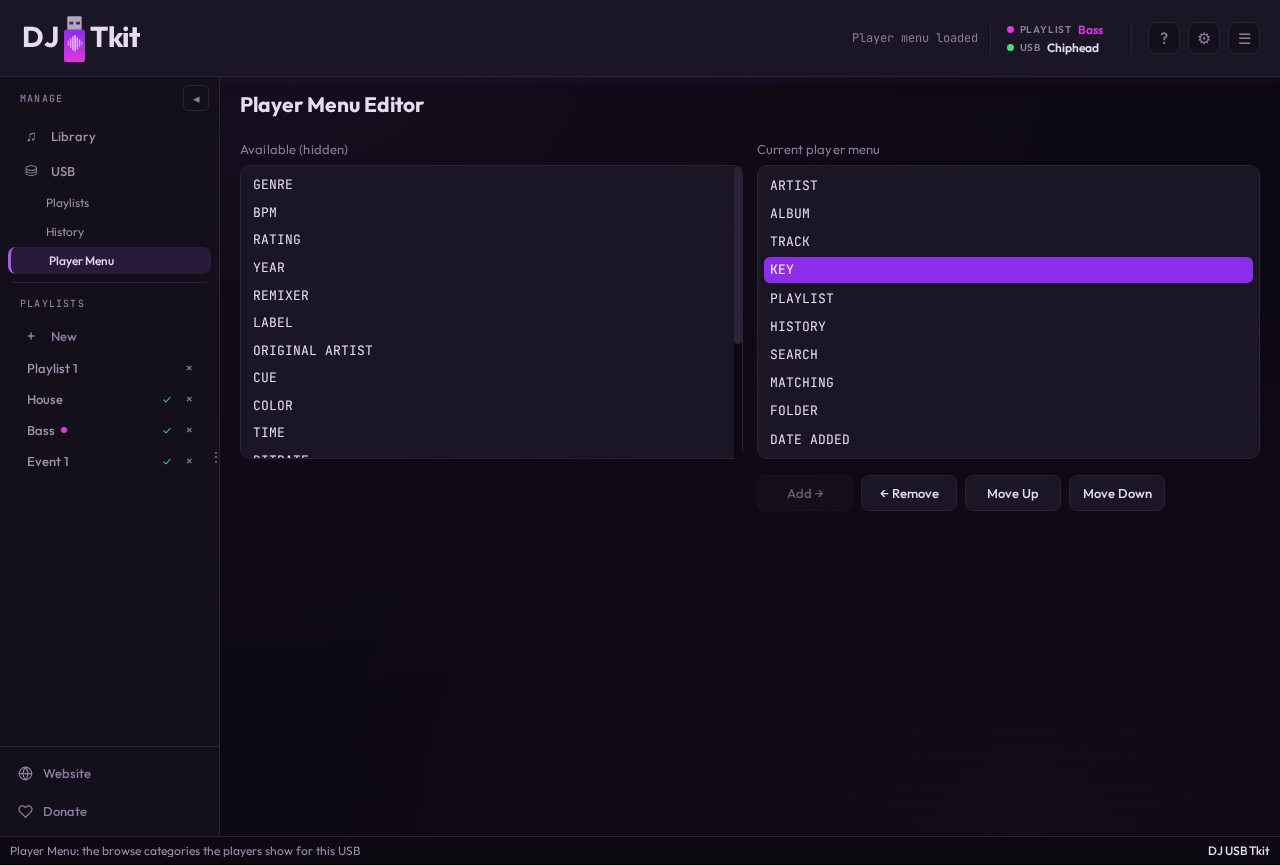
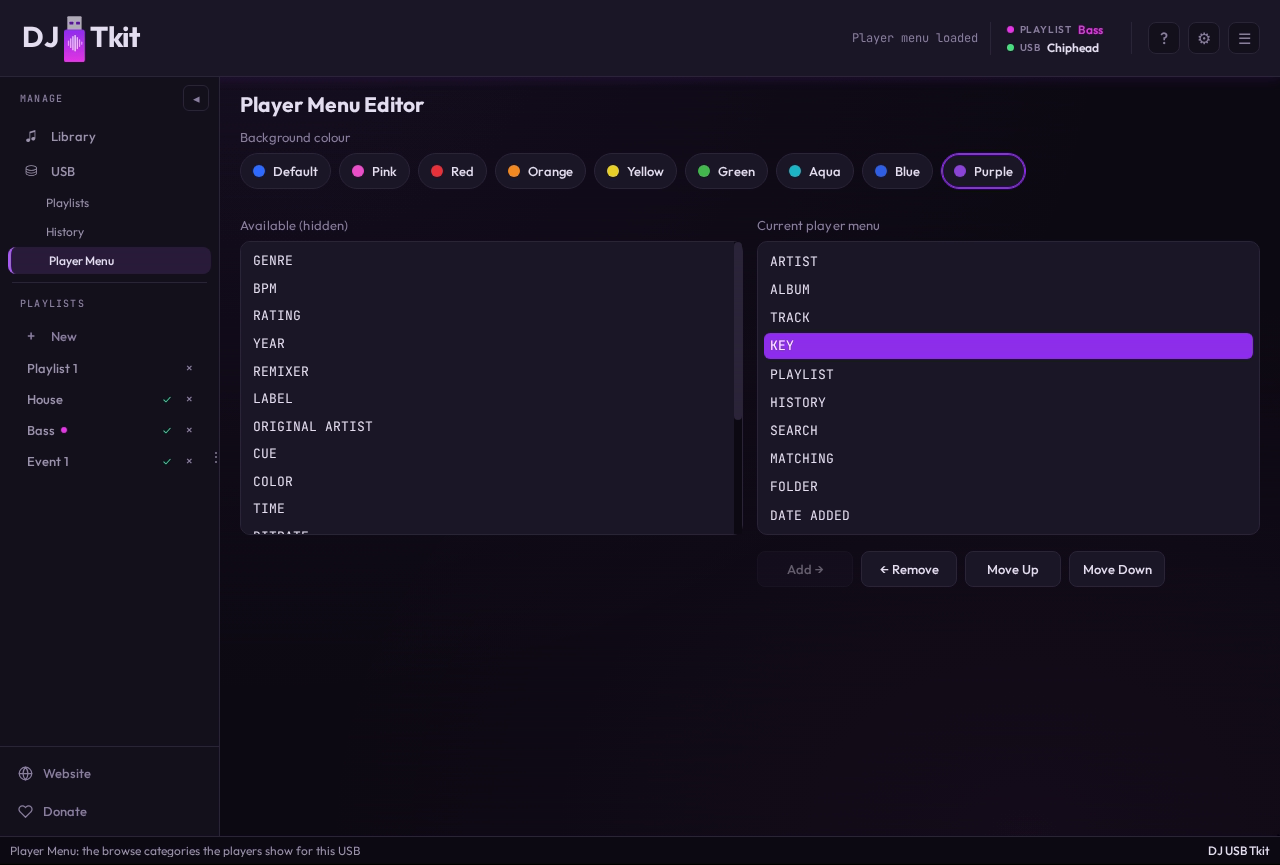
v0.5.0

diff --git a/vanilla-ui/scripts/doc-media/page_init.js b/vanilla-ui/scripts/doc-media/page_init.js
@@ -68,7 +68,7 @@
     const id = `pl-import-${source}-${item.id}`;
     const items = byTitles(item.titles);
     playlists.push({ id, name: item.name, tracks: items, imported: true });
-    return ok({ playlistId: id, name: item.name, added: items.length, indexed: 0, notFound: [], warnings: [] });
+    return { playlistId: id, name: item.name, added: items.length, indexed: 0, notFound: [], warnings: [] };
   };
   // USB track rows by title, from every exported playlist.
   const usbTracksByTitle = new Map(
@@ -203,10 +203,17 @@
             return listExternal("rekordbox");
           case "list_mixxx_playlists":
             return listExternal("mixxx");
-          case "import_rekordbox_playlist":
-            return importPlaylist("rekordbox", r);
-          case "import_mixxx_playlist":
-            return importPlaylist("mixxx", r);
+          case "import_external_playlists": {
+            // Every ticked list in one call, as the backend imports them.
+            const results = r.items.map((item) => ({ playlist: importPlaylist(item.library, item) }));
+            return ok({
+              results,
+              imported: results.length,
+              failed: 0,
+              added: results.reduce((n, { playlist }) => n + playlist.added, 0),
+              skipped: 0,
+            });
+          }
           case "list_playlists":
             return ok({ items: playlistRows() });
           case "create_playlist": {
@@ -312,6 +319,9 @@
             return usbTracksPage(historySessions.find((h) => h.id === r.id)?.items || []);
           case "get_usb_player_menu_config":
             return usb.playerMenu;
+          case "get_usb_background_color":
+            // What an app-initialized USB holds: purple in both databases.
+            return ok({ pdbColor: 8, edbColor: 8, writable: true });
           case "export_to_usb":
             return replayExport(r.playlistId);
           case "browse_source_files": {

diff --git a/docs/USB_EXPORT.md b/docs/USB_EXPORT.md
@@ -447,7 +447,7 @@ Player browse-category metadata is stored in two related places:
 
 The USB view's Player Menu editor shows and changes the visible categories:
 
-![The Player Menu editor: hidden categories on the left, the player's menu on the right](assets/player-menu.png)
+![The Player Menu editor: the background colour on top, hidden categories on the left, the player's menu on the right](assets/player-menu.png)
 
 App-initialized USBs seed the current 27-row PDB catalog, but existing USBs can
 carry smaller or source-specific PDB menu profiles. Normal playlist export

diff --git a/CHANGELOG.md b/CHANGELOG.md
@@ -37,7 +37,7 @@
   - **Fix (CRITICAL):** ...
 -->
 
-## Unreleased
+## 0.5.0
 
 **Severity:** feature
 
